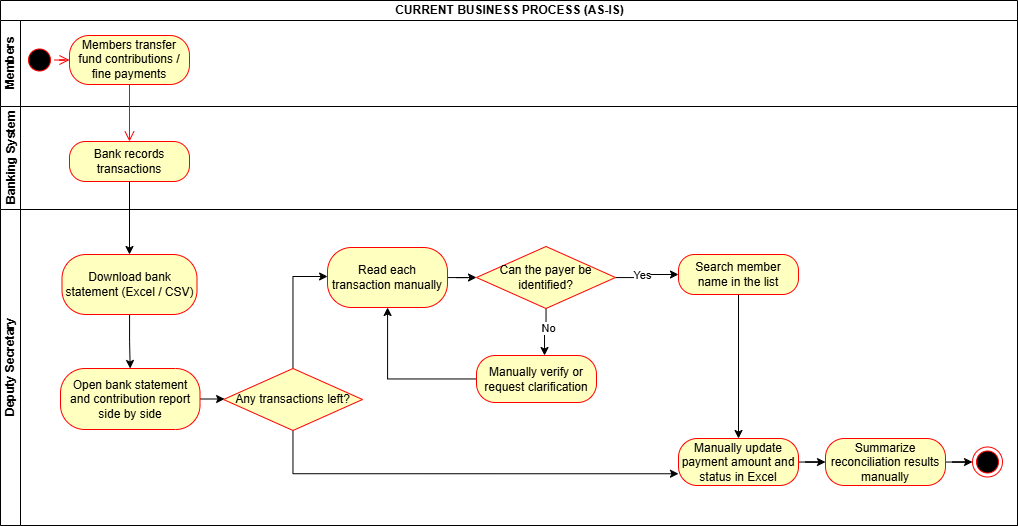
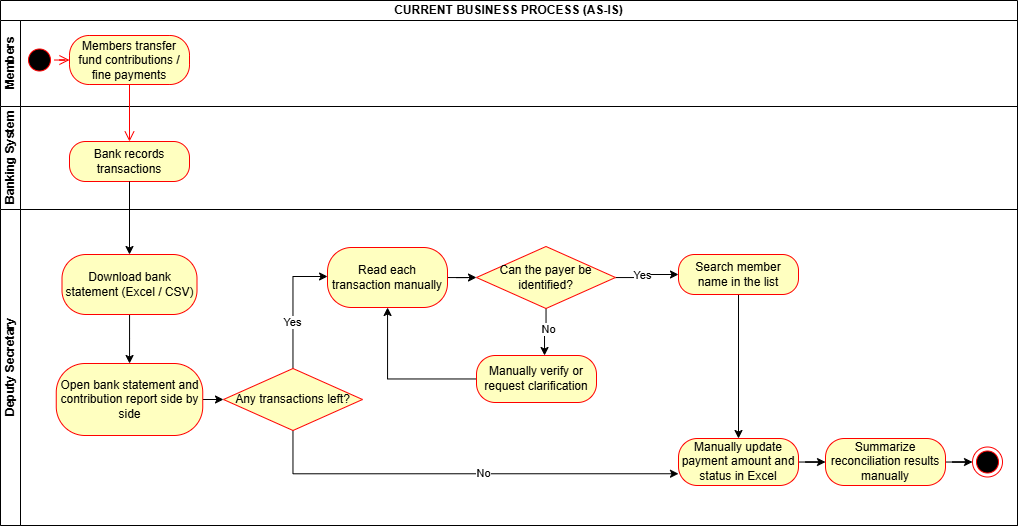
update

diff --git a/index.html b/index.html
@@ -2046,7 +2046,7 @@
               <path d="M2 2h11v11H2V2zm2 3h7M4 8.5h7M4 11h4" stroke="currentColor" stroke-width="1.5"
                 stroke-linecap="round" />
             </svg>
-            Project Documentation
+            Documentation
           </a>
           <a href="https://github.com/nhuwynh07/tool_update_fund_cbsv" target="_blank" rel="noopener"
             class="btn btn--dark-outline btn--sm">